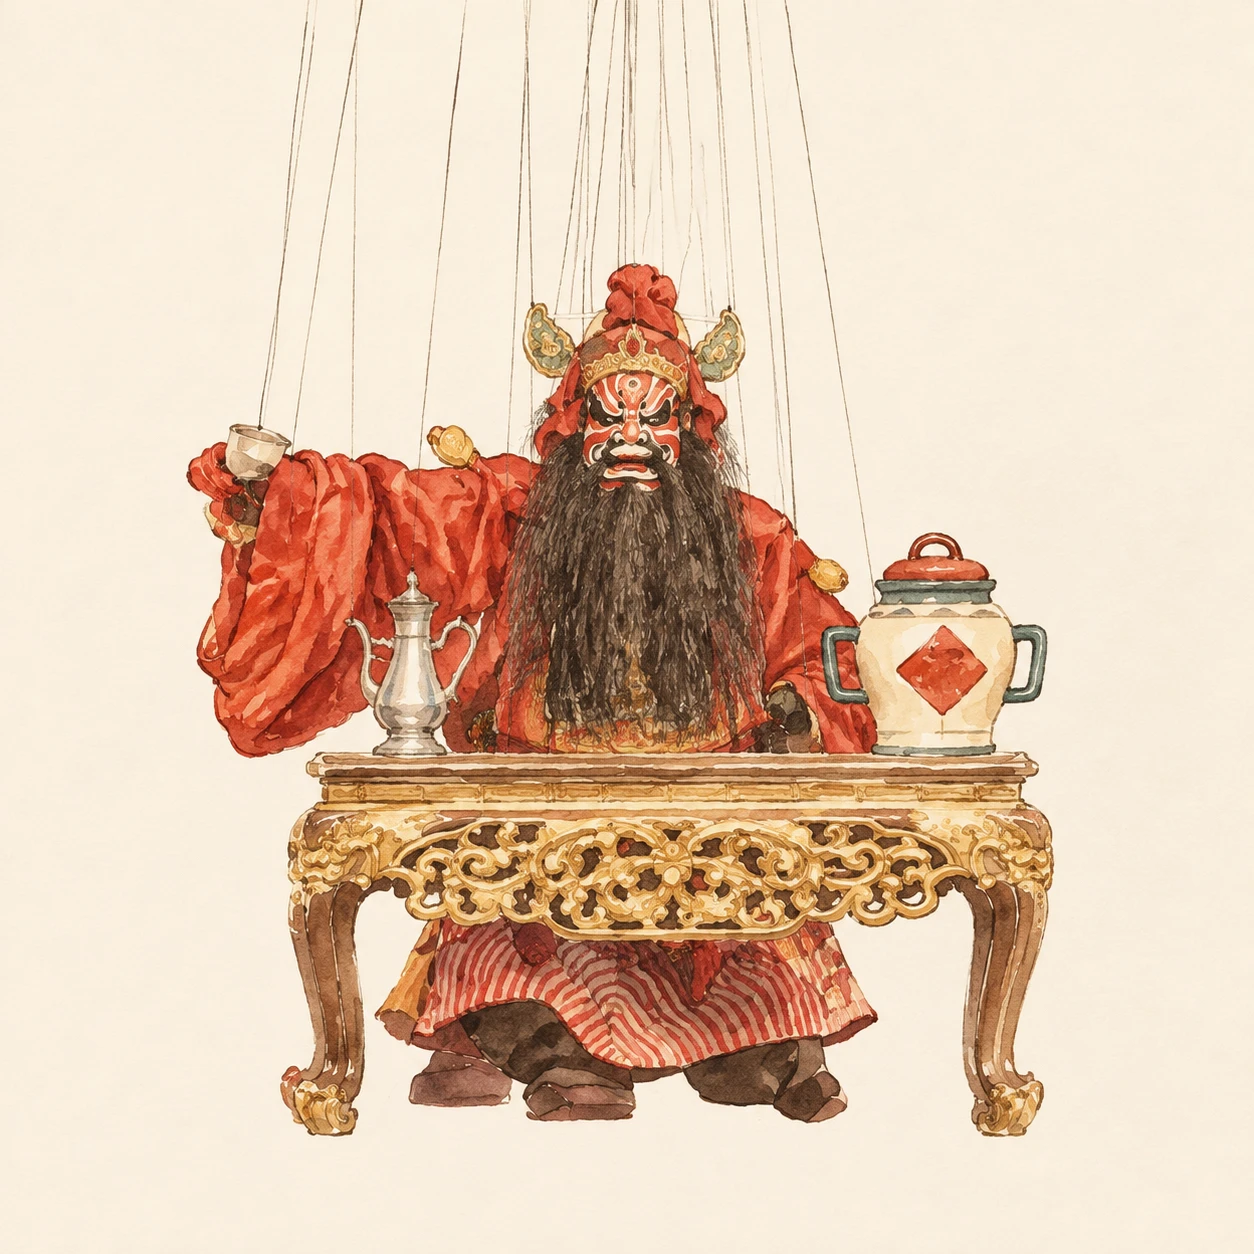
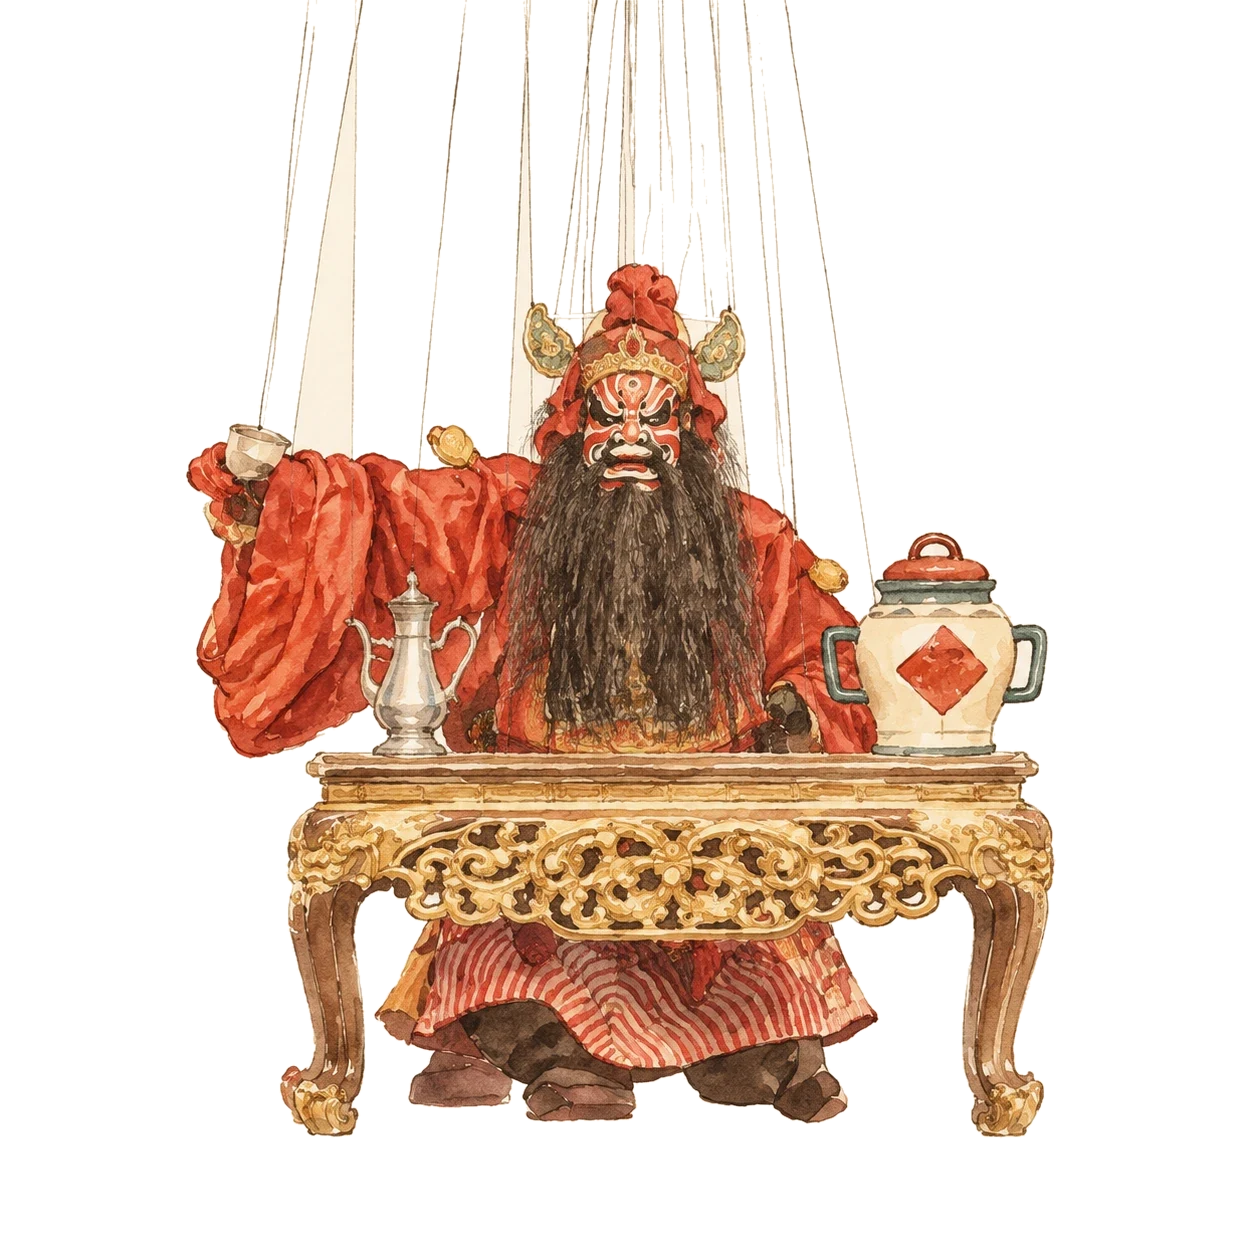
曲艺、节庆页纹样改透明底，修掉滚动时露白方块
问题：纹样图是 RGB 白底（无 alpha），靠 mix-blend-mode: multiply 把白底吃掉
才融进纸色。但混合模式要读它下面的背景（backdrop），而两处纹样都带
transform 浮动动画、会被提升成独立合成层；滚动一快浏览器来不及准备
backdrop，就用白色兜底，整块矩形露成白方块。

改法：把白底做成真透明，不再依赖混合模式。
- 纹样图与首屏鱼灯共 10 张：按「与画布边缘连通」抠背景，只删外部底色，
  内部白毛、白釉等留白不受影响；边缘 0.7px 羽化避免锯齿
- 两处 CSS 删掉 mix-blend-mode，保留原有 filter 与 opacity，
  观感与原设计基本一致（少了 multiply 约 4.5% 的压暗）
- 注释写明为什么不能再加回混合模式

注：food / dance 页仍用同一套白底 + multiply 写法，本次未改。

diff --git a/site/assets/css/category-festival.css b/site/assets/css/category-festival.css
@@ -1,14 +1,18 @@
 /* 节日页专属纹样：叠在 category.css 之后，只在 category/festival.html 加载。
    每个小项一枚代表纹样，落在文字栏下方的留白里，都完整显示、不裁切。
-   纹样是 category/festival/images/motif-*.webp 艾草绿水彩图，白底用 multiply 吃掉；
-   只有水族端节仍用 motif-shuishu-qd.svg，它的渐变与投影已画在 SVG 里，不叠混合和滤镜。 */
+   纹样是 category/festival/images/motif-*.webp 艾草绿水彩图，已抠成透明底，直接叠在纸色上；
+   只有水族端节仍用 motif-shuishu-qd.svg，它的渐变与投影已画在 SVG 里，不叠混合和滤镜。
+
+   不要再用 mix-blend-mode: multiply 去吃掉白底。混合模式要读它下面的背景（backdrop），
+   而纹样都带 transform 浮动动画、会被提升成独立合成层，滚动一快浏览器来不及准备 backdrop，
+   就用白色兜底，整块矩形露成白方块。透明底不依赖背景，怎么滚都不会出白块。 */
 
 /* 首屏火龙是横图，放进 4:5 竖框：取景略左移，主龙从龙须到龙身才完整 */
 .category-hero__media img { object-position: 43% 50%; }
 
 /* ── 首屏鱼灯：完整放在「节日」右上的留白里，不碰标题、副标题和照片 ──
    --fs 同 category.css 的 h1 字号：左缘按字号让开标题，提杆底端停在标题中上部（图片下方自带约 15% 空白）。
-   31px = 眉题高度 + h1 上外边距。原图白底，用 multiply 吃掉；降饱和后才贴近其他纹样的艾草绿。 */
+   31px = 眉题高度 + h1 上外边距。透明底，降饱和后才贴近其他纹样的艾草绿。 */
 .category-hero__inner > div { position: relative; }
 .category-hero__inner > div::before {
   --fs: clamp(52px, 8vw, 118px);
@@ -20,7 +24,6 @@
   left: calc(var(--fs) * 2.15);
   top: calc(31px + var(--fs) * .6 - var(--s) * .86);
   background: url("../../category/festival/images/fish-lantern.webp") center / contain no-repeat;
-  mix-blend-mode: multiply;
   filter: brightness(1.04) saturate(.76);
   opacity: .82;
   animation: qd-float 8s ease-in-out infinite alternate;
@@ -56,9 +59,8 @@
 }
 /* 偶数项文字栏在右，纹样靠右 */
 .project:nth-child(even) .project__text::after { margin-left: auto; }
-/* 水彩纹样：提亮把近白底推成纯白，与首屏鱼灯同一套调淡方式 */
+/* 水彩纹样：透明底，与首屏鱼灯同一套调淡方式 */
 .project:not(#shuizu-duanjie) .project__text::after {
-  mix-blend-mode: multiply;
   filter: brightness(1.04) saturate(.8);
   opacity: .82;
 }

diff --git a/site/assets/css/category-opera.css b/site/assets/css/category-opera.css
@@ -1,6 +1,10 @@
 /* 曲艺页专属纹样：叠在 category.css 之后，只在 category/opera.html 加载。
    每个小项一幅石榴红手绘插图，落在文字栏下方的留白里，都完整显示、不裁切。
-   插图是绢白底，提亮把底色推成纯白，再用 multiply 吃掉；降饱和、降透明度调淡。 */
+   插图已抠成透明底，直接叠在纸色上；降饱和、降透明度调淡。
+
+   不要再用 mix-blend-mode: multiply 去吃掉白底。混合模式要读它下面的背景（backdrop），
+   而这两处插图都带 transform 浮动动画、会被提升成独立合成层，滚动一快浏览器来不及
+   准备 backdrop，就用白色兜底，整块矩形露成白方块。透明底不依赖背景，怎么滚都不会出白块。 */
 
 /* ── 首屏英歌鼓手：完整放在「曲艺」右上的留白里，不碰标题、副标题和照片 ──
    --fs 同 category.css 的 h1 字号：左缘按字号让开标题，底边停在标题下沿。
@@ -18,7 +22,6 @@
   left: calc(var(--fs) * 2.3);
   top: calc(31px + var(--fs) * 1.04 - var(--s) * 4 / 3);
   background: url("../../category/opera/images/motif-yingge-drummer.webp") center / contain no-repeat;
-  mix-blend-mode: multiply;
   filter: brightness(1.2) saturate(.82);
   opacity: .6;
   animation: qd-float 8s ease-in-out infinite alternate;
@@ -47,7 +50,6 @@
   aspect-ratio: var(--ms-ratio);
   margin-top: auto;
   background: var(--motif) center / contain no-repeat;
-  mix-blend-mode: multiply;
   filter: brightness(1.2) saturate(.82);
   opacity: .6;
   animation: qd-float 8s ease-in-out infinite alternate;
